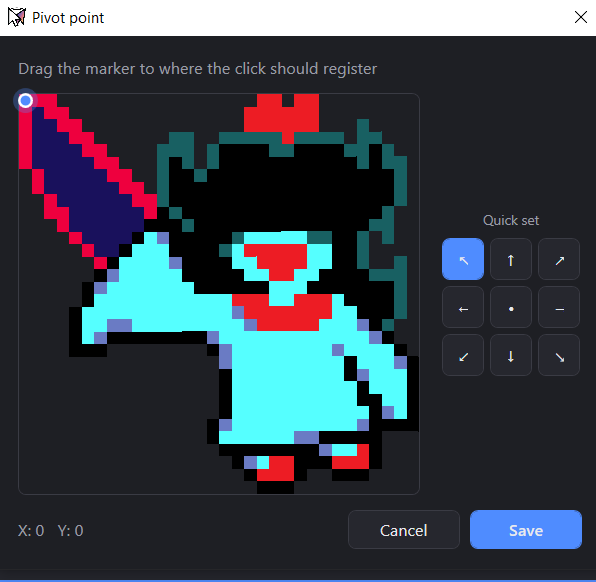
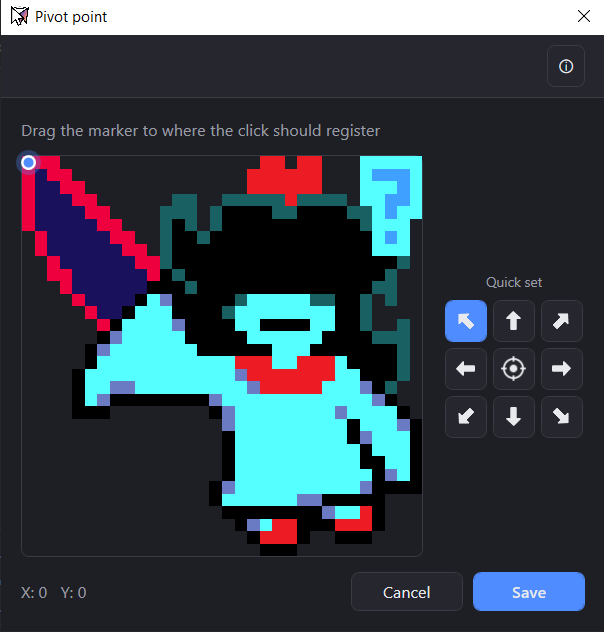
New readme 1.3.0

diff --git a/README.md b/README.md
@@ -59,6 +59,29 @@ apply.
   pull a role from another saved preset instead of a file on disk: a
   two-step picker (choose preset → choose role) with a "current role only"
   filter. Mixed presets are marked with a 🧩 badge in the gallery.
+- **Preset context menu** — right-click a tile in the gallery to edit,
+  rename, move it left/right, download it, or delete it, without opening
+  the editor.
+- **Export presets** — pick any set of presets and save them either as a
+  `.cursorpalette` bundle (full-fidelity: roles, locked roles, and cursor
+  size are preserved, and roles borrowed from other presets are copied in
+  so the file is self-contained and safe to share) or as a plain ZIP
+  archive with the raw `.cur`/`.ani` files for use outside the app. Both are
+  saved to the Downloads folder.
+- **Import presets** — pick a `.cursorpalette` bundle or a `.zip`/`.rar`/
+  `.7z` archive (via the Import button or by dropping the file onto the
+  main window), choose which presets to bring in, and they're added to
+  the gallery as new presets. Importing a bundle created by a newer,
+  incompatible version of the app is detected and blocked with a clear
+  message.
+- **Update checker** — the footer shows whether the app is up to date and
+  lets you download and install a new version in one click, or check again
+  on demand.
+- **Built-in help on every screen** — the ⓘ button in the top-right corner
+  of every window opens an infobox that explains everything on that
+  specific screen: the main gallery, the preset editor, the pivot point
+  editor, export/import windows, and the role/preset pickers all have
+  their own contextual help, with independent text zoom controls.
 
 ## How it works
 
